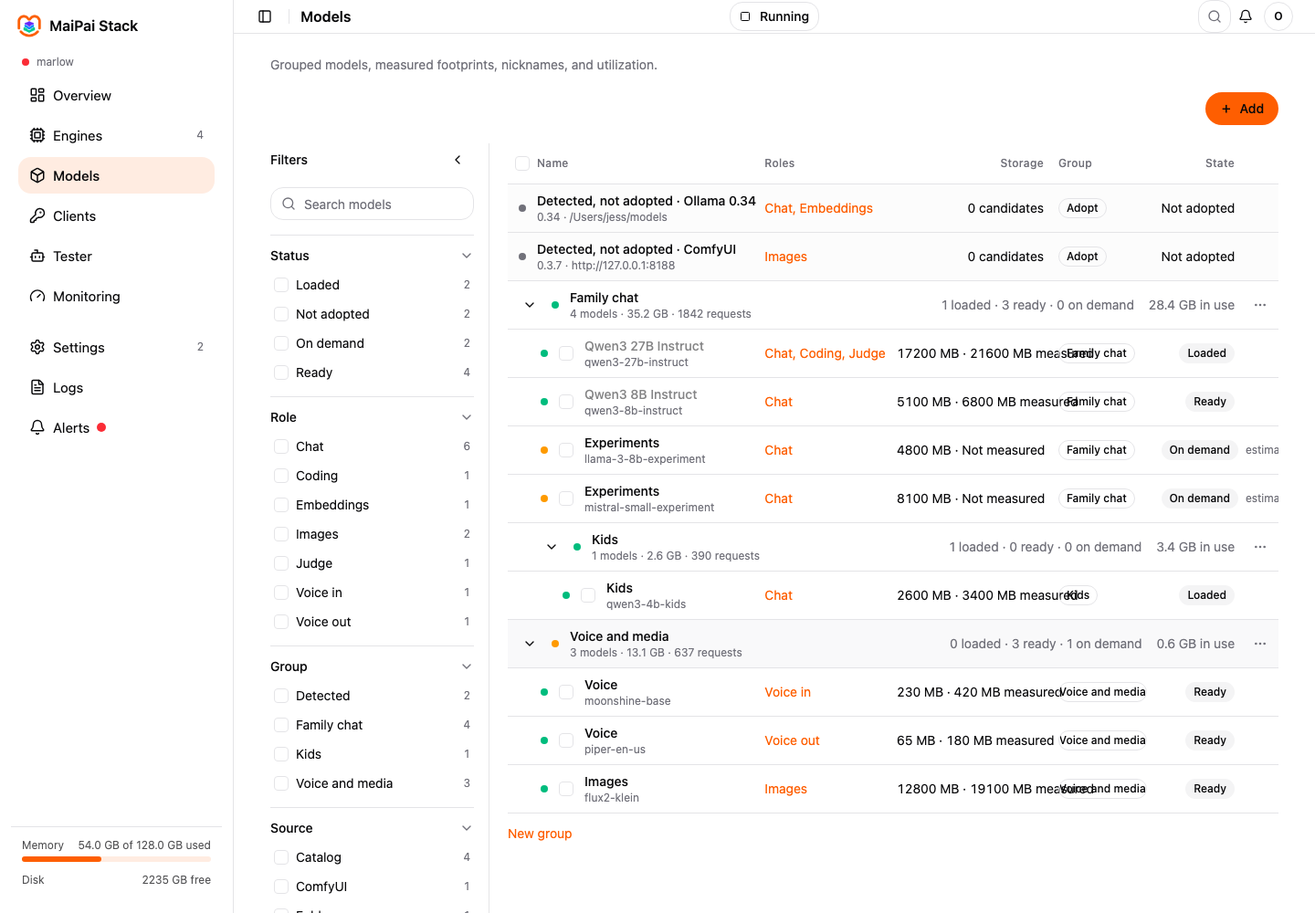
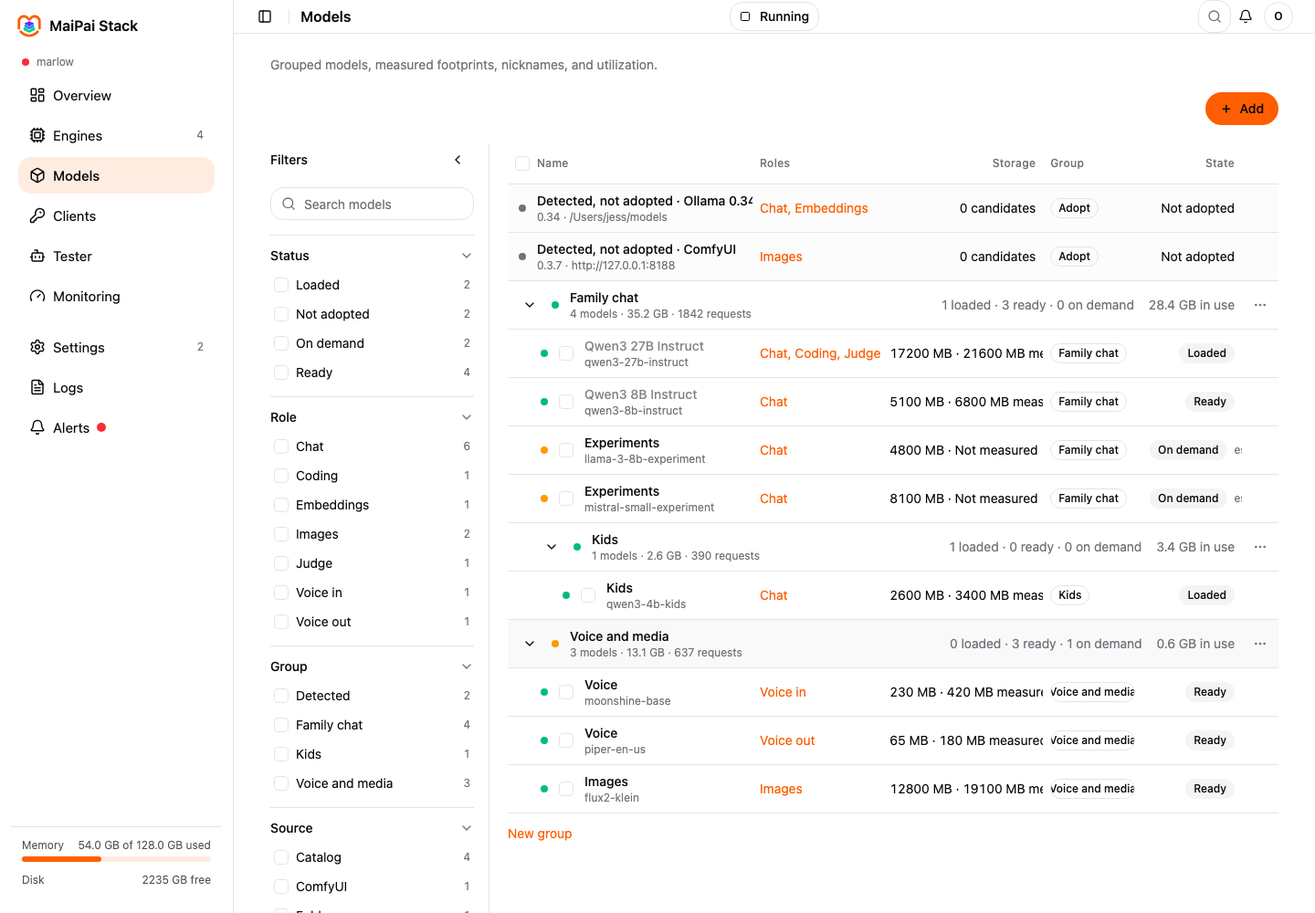
Things table: fixed column layout, the kebab on every row

diff --git a/frontend/src/kit/blocks/things-table/ThingsTable.tsx b/frontend/src/kit/blocks/things-table/ThingsTable.tsx
@@ -163,7 +163,7 @@ export function ThingsTable<Row>({ columns, rows, getStatus = () => "ready", get
           {index === 0 ? <div className="flex min-w-0 items-center gap-3"><StatusDot status={rowStatus} />{selectable && rowSelectable(row) && <Checkbox aria-label={`Select ${textContent(value) || getKey(row)}`} checked={selectedKeys.has(getKey(row))} onCheckedChange={(checked) => toggleRow(row, checked === true)} onClick={(event) => event.stopPropagation()} />}{textContent(value) ? <Tooltip><TooltipTrigger asChild><div className="min-w-0 max-w-full" title={textContent(value)}>{content}</div></TooltipTrigger><TooltipContent>{textContent(value)}</TooltipContent></Tooltip> : content}</div> : content}
         </TableCell>;
       })}
-      {rowActions && <TableCell className="w-10 p-1 text-right"><DropdownMenu><DropdownMenuTrigger asChild><button type="button" aria-label={`Actions for ${getKey(row)}`} onClick={(event) => event.stopPropagation()} className="inline-flex size-8 items-center justify-center rounded-md text-muted-foreground opacity-0 transition-opacity hover:bg-muted focus-visible:opacity-100 focus-visible:ring-2 focus-visible:ring-ring group-hover/thing:opacity-100 group-focus-within/thing:opacity-100"><MoreHorizontal className="size-4" /></button></DropdownMenuTrigger><DropdownMenuContent align="end" style={{ backgroundColor: "var(--popover)" }} className="bg-popover opacity-100">{actionsForRow.map((action, index) => <Fragment key={action.label}>{index > 0 && action.destructive && <DropdownMenuSeparator />}<DropdownMenuItem variant={action.destructive ? "destructive" : "default"} disabled={action.disabled} onSelect={(event) => { if (action.destructive) { event.preventDefault(); setConfirmAction({ key: getKey(row), action }); } else void action.onClick(); }}>{action.label}</DropdownMenuItem></Fragment>)}{confirmAction?.key === getKey(row) && <div className="max-w-56 border-t bg-popover p-2 text-xs"><p>{confirmAction.action.confirmLabel ?? `${confirmAction.action.label} this item?`}</p><div className="mt-2 flex justify-end gap-2"><button type="button" className="text-muted-foreground" onClick={() => setConfirmAction(null)}>Cancel</button><button type="button" className="font-medium text-destructive" onClick={async () => { await confirmAction.action.onClick(); setConfirmAction(null); }}>Confirm</button></div></div>}</DropdownMenuContent></DropdownMenu></TableCell>}
+      {rowActions && <TableCell className="w-10 p-1 text-right"><DropdownMenu><DropdownMenuTrigger asChild><button type="button" aria-label="More actions" onClick={(event) => event.stopPropagation()} className="inline-flex size-8 items-center justify-center rounded-md text-muted-foreground opacity-0 transition-opacity hover:bg-muted focus-visible:opacity-100 focus-visible:ring-2 focus-visible:ring-ring group-hover/thing:opacity-100 group-focus-within/thing:opacity-100 [@media(hover:none)]:opacity-100"><MoreHorizontal className="size-4" /></button></DropdownMenuTrigger><DropdownMenuContent align="end" style={{ backgroundColor: "var(--popover)" }} className="bg-popover opacity-100">{actionsForRow.map((action, index) => <Fragment key={action.label}>{index > 0 && action.destructive && <DropdownMenuSeparator />}<DropdownMenuItem variant={action.destructive ? "destructive" : "default"} disabled={action.disabled} onSelect={(event) => { if (action.destructive) { event.preventDefault(); setConfirmAction({ key: getKey(row), action }); } else void action.onClick(); }}>{action.label}</DropdownMenuItem></Fragment>)}{confirmAction?.key === getKey(row) && <div className="max-w-56 border-t bg-popover p-2 text-xs"><p>{confirmAction.action.confirmLabel ?? `${confirmAction.action.label} this item?`}</p><div className="mt-2 flex justify-end gap-2"><button type="button" className="text-muted-foreground" onClick={() => setConfirmAction(null)}>Cancel</button><button type="button" className="font-medium text-destructive" onClick={async () => { await confirmAction.action.onClick(); setConfirmAction(null); }}>Confirm</button></div></div>}</DropdownMenuContent></DropdownMenu></TableCell>}
     </TableRow>;
   };
 
@@ -176,7 +176,7 @@ export function ThingsTable<Row>({ columns, rows, getStatus = () => "ready", get
     return <Fragment key={`group-${group.key}`}><TableRow className="cursor-pointer focus-visible:bg-muted/50" onClick={() => group.onClick?.()} tabIndex={group.onClick ? 0 : undefined}>
       <TableCell style={{ paddingLeft: `${depth * 1.5 + 0.75}rem` }} colSpan={1}><div className="flex min-w-0 items-center gap-3"><button type="button" className="inline-flex size-6 shrink-0 items-center justify-center rounded-md focus-visible:ring-2 focus-visible:ring-ring" aria-label={`${isExpanded ? "Collapse" : "Expand"} ${group.ariaLabel ?? textContent(group.label)}`} onClick={(event) => { event.stopPropagation(); setExpanded((current) => { const next = new Set(current); if (next.has(group.key)) next.delete(group.key); else next.add(group.key); return next; }); }}>{isExpanded ? <ChevronDown className="size-4" /> : <ChevronRight className="size-4" />}</button><StatusDot status={groupStatus} /><div className="min-w-0">{group.label}</div></div></TableCell>
       {columns.length > 1 && <TableCell colSpan={columns.length - 1} className="text-right text-sm text-muted-foreground">{group.summary}</TableCell>}
-      {groupActions && <TableCell className="w-10 p-1"><DropdownMenu><DropdownMenuTrigger asChild><button type="button" aria-label={`Actions for ${group.ariaLabel ?? group.key}`} onClick={(event) => event.stopPropagation()} className="inline-flex size-8 items-center justify-center rounded-md text-muted-foreground hover:bg-muted focus-visible:ring-2 focus-visible:ring-ring"><MoreHorizontal className="size-4" /></button></DropdownMenuTrigger><DropdownMenuContent align="end" className="bg-popover opacity-100">{actionsForGroup.map((action) => <DropdownMenuItem key={action.label} variant={action.destructive ? "destructive" : "default"} onSelect={(event) => { if (action.destructive) { event.preventDefault(); setConfirmAction({ key: `group:${group.key}`, action }); } else void action.onClick(); }}>{action.label}</DropdownMenuItem>)}{confirmAction?.key === `group:${group.key}` && <div className="max-w-56 border-t bg-popover p-2 text-xs"><p>{confirmAction.action.confirmLabel ?? `${confirmAction.action.label} this group?`}</p><div className="mt-2 flex justify-end gap-2"><button type="button" className="text-muted-foreground" onClick={() => setConfirmAction(null)}>Cancel</button><button type="button" className="font-medium text-destructive" onClick={async () => { await confirmAction.action.onClick(); setConfirmAction(null); }}>Confirm</button></div></div>}</DropdownMenuContent></DropdownMenu></TableCell>}
+      {groupActions && <TableCell className="w-10 p-1"><DropdownMenu><DropdownMenuTrigger asChild><button type="button" aria-label="More actions" onClick={(event) => event.stopPropagation()} className="inline-flex size-8 items-center justify-center rounded-md text-muted-foreground hover:bg-muted focus-visible:ring-2 focus-visible:ring-ring"><MoreHorizontal className="size-4" /></button></DropdownMenuTrigger><DropdownMenuContent align="end" className="bg-popover opacity-100">{actionsForGroup.map((action) => <DropdownMenuItem key={action.label} variant={action.destructive ? "destructive" : "default"} onSelect={(event) => { if (action.destructive) { event.preventDefault(); setConfirmAction({ key: `group:${group.key}`, action }); } else void action.onClick(); }}>{action.label}</DropdownMenuItem>)}{confirmAction?.key === `group:${group.key}` && <div className="max-w-56 border-t bg-popover p-2 text-xs"><p>{confirmAction.action.confirmLabel ?? `${confirmAction.action.label} this group?`}</p><div className="mt-2 flex justify-end gap-2"><button type="button" className="text-muted-foreground" onClick={() => setConfirmAction(null)}>Cancel</button><button type="button" className="font-medium text-destructive" onClick={async () => { await confirmAction.action.onClick(); setConfirmAction(null); }}>Confirm</button></div></div>}</DropdownMenuContent></DropdownMenu></TableCell>}
     </TableRow>{isExpanded && childRows.map((row) => renderRow(row, depth + 1))}{isExpanded && childGroups.map((child) => renderGroup(child, depth + 1))}</Fragment>;
   };
 

diff --git a/frontend/src/pages/ModelsPage.tsx b/frontend/src/pages/ModelsPage.tsx
@@ -103,11 +103,11 @@ export function ModelsPage({ Frame }: { Frame: SectionFrameComponent }) {
   if (noModels) return <Frame title="Models" description="Grouped models, measured footprints, nicknames, and utilization."><PageEmptyState title="No models are installed yet" detail="Choose an ability to bring the first local model to this computer." action={<Button asChild><a href="/abilities">Add abilities</a></Button>} /></Frame>;
   return <Frame title="Models" description="Grouped models, measured footprints, nicknames, and utilization."><div className="flex justify-end"><Button onClick={() => setAddOpen(true)}><span aria-hidden="true">＋</span>Add</Button></div><ThingsPage filter={{ search: { value: filterSearch, onChange: setFilterSearch, placeholder: "Search models" }, groups: filterGroups, onClear: () => { setFilterSearch(""); setFilterSelections({}); } }} table={<ThingsTable<ModelRow>
     columns={[
-      { key: "name", header: "Name", width: "34%", render: (row) => row.kind === "detected" ? <div><p className="font-medium">Detected, not adopted · {row.store.name}</p><p className="text-xs text-muted-foreground">{row.store.version} · {row.store.path ?? row.store.where}</p></div> : <div className="min-w-0"><input aria-label={`Nickname ${row.model.id}`} className="block w-44 max-w-full truncate bg-transparent font-medium outline-none" defaultValue={renames[row.model.id] ?? row.model.nickname ?? ""} placeholder={displayName(row.model.id)} onKeyDown={(event) => { if (event.key === "Escape") { event.currentTarget.value = row.model.nickname ?? ""; event.currentTarget.blur(); } if (event.key === "Enter") event.currentTarget.blur(); }} onBlur={(event) => void renameModel(row.model, event.target.value)} onClick={(event) => event.stopPropagation()} /><p className="truncate text-xs text-muted-foreground">{row.model.nickname && row.model.nickname !== displayName(row.model.id) ? row.model.id : displayName(row.model.id) !== row.model.id ? row.model.id : null}</p><p className="truncate text-xs text-muted-foreground xl:hidden">{groupRows.find((group) => group.id === row.model.groupId)?.name ?? "Ungrouped"}</p></div> },
-      { key: "roles", header: "Roles", width: "18%", render: (row) => row.kind === "detected" ? linkCell("/abilities", (row.store.couldHold ?? row.store.roles ?? []).map(roleLabel).join(", ") || "Unassigned") : linkCell("/abilities", row.model.roles.map(roleLabel).join(", ")) },
-      { key: "size", header: "Storage", width: "22%", align: "right", render: (row) => row.kind === "detected" ? `${row.store.candidateModels ?? 0} candidates` : `${row.model.sizeBytes ? `${Math.round(row.model.sizeBytes / 1_000_000 * 10) / 10} MB` : "Size unknown"} · ${row.model.measuredFootprintBytes ? `${Math.round(row.model.measuredFootprintBytes / 1_000_000 * 10) / 10} MB measured` : "Not measured"}` },
-      { key: "group", header: "Group", width: "14%", compact: true, render: (row) => row.kind === "detected" ? <Badge variant="outline">Adopt</Badge> : <Badge variant="outline" className="max-w-full truncate">{groupRows.find((group) => group.id === row.model.groupId)?.name ?? "Ungrouped"}</Badge> },
-      { key: "state", header: "State", width: "12%", align: "right", render: (row) => row.kind === "detected" ? "Not adopted" : <><Badge variant="secondary">{stateLabel(row.model.runtimeState ?? row.model.state)}</Badge>{row.model.estimated && <span className="ml-2 text-xs text-muted-foreground">estimated</span>}</> },
+      { key: "name", header: "Name", width: "32%", render: (row) => row.kind === "detected" ? <div><p className="font-medium">Detected, not adopted · {row.store.name}</p><p className="text-xs text-muted-foreground">{row.store.version} · {row.store.path ?? row.store.where}</p></div> : <div className="min-w-0"><input aria-label={`Nickname ${row.model.id}`} className="block w-44 max-w-full truncate bg-transparent font-medium outline-none" defaultValue={renames[row.model.id] ?? row.model.nickname ?? ""} placeholder={displayName(row.model.id)} onKeyDown={(event) => { if (event.key === "Escape") { event.currentTarget.value = row.model.nickname ?? ""; event.currentTarget.blur(); } if (event.key === "Enter") event.currentTarget.blur(); }} onBlur={(event) => void renameModel(row.model, event.target.value)} onClick={(event) => event.stopPropagation()} /><p className="truncate text-xs text-muted-foreground">{row.model.nickname && row.model.nickname !== displayName(row.model.id) ? row.model.id : displayName(row.model.id) !== row.model.id ? row.model.id : null}</p><p className="truncate text-xs text-muted-foreground xl:hidden">{groupRows.find((group) => group.id === row.model.groupId)?.name ?? "Ungrouped"}</p></div> },
+      { key: "roles", header: "Roles", width: "17%", render: (row) => row.kind === "detected" ? linkCell("/abilities", (row.store.couldHold ?? row.store.roles ?? []).map(roleLabel).join(", ") || "Unassigned") : linkCell("/abilities", row.model.roles.map(roleLabel).join(", ")) },
+      { key: "size", header: "Storage", width: "21%", align: "right", render: (row) => row.kind === "detected" ? `${row.store.candidateModels ?? 0} candidates` : `${row.model.sizeBytes ? `${Math.round(row.model.sizeBytes / 1_000_000 * 10) / 10} MB` : "Size unknown"} · ${row.model.measuredFootprintBytes ? `${Math.round(row.model.measuredFootprintBytes / 1_000_000 * 10) / 10} MB measured` : "Not measured"}` },
+      { key: "group", header: "Group", width: "13%", compact: true, render: (row) => row.kind === "detected" ? <Badge variant="outline">Adopt</Badge> : <Badge variant="outline" className="max-w-full truncate">{groupRows.find((group) => group.id === row.model.groupId)?.name ?? "Ungrouped"}</Badge> },
+      { key: "state", header: "State", width: "13%", align: "right", render: (row) => row.kind === "detected" ? "Not adopted" : <><Badge variant="secondary">{stateLabel(row.model.runtimeState ?? row.model.state)}</Badge>{row.model.estimated && <span className="ml-2 text-xs text-muted-foreground">estimated</span>}</> },
     ]}
     rows={rows}
     groups={groupTree}

diff --git a/scripts/screenshot.ts b/scripts/screenshot.ts
@@ -14,7 +14,7 @@ async function captureTry(page: import("playwright").Page, url: string, path: st
 async function capturePhoneFirstViews(page: import("playwright").Page, url: string): Promise<void> { await page.route("**/stack/v1/operator", async (request) => request.fulfill({ status: 200, contentType: "application/json", body: JSON.stringify({ state: "setupRequired", required: true }) })); await page.goto(`${url}/login`, { waitUntil: "networkidle" }); await page.screenshot({ path: join(SCREEN_DIR, "login-phone.png"), fullPage: true }); await page.unroute("**/stack/v1/operator"); await page.goto(`${url}/abilities`, { waitUntil: "networkidle" }); await page.locator("main").first().waitFor(); await page.screenshot({ path: join(SCREEN_DIR, "board-phone.png"), fullPage: true }); }
 async function captureShowroom(page: import("playwright").Page, url: string, route: string, heading: string, path: string): Promise<void> { await page.goto(`${url}${route}`, { waitUntil: "networkidle" }); await page.locator("main").first().waitFor(); await page.waitForTimeout(400); if (route === "/" && path.endsWith("overview-console-phone.png")) await capturePhoneFirstViews(page, url); await page.goto(`${url}${route}`, { waitUntil: "networkidle" }); await page.locator("main").first().waitFor(); await page.screenshot({ path, fullPage: true }); if (route === "/" && path.endsWith("overview-console-light.png")) await page.screenshot({ path: join(SCREEN_DIR, "showroom-overview.png"), fullPage: true }); }
 async function captureModelsGroups(page: import("playwright").Page, url: string, path: string): Promise<void> { await page.goto(`${url}/models`, { waitUntil: "networkidle" }); await page.locator("main").first().waitFor(); while (await page.getByRole("button", { name: /^Expand/ }).count()) await page.getByRole("button", { name: /^Expand/ }).first().click(); await page.waitForTimeout(400); await page.screenshot({ path, fullPage: true }); }
-async function captureThingsSecondPass(page: import("playwright").Page, url: string): Promise<void> { await page.goto(`${url}/models`, { waitUntil: "networkidle" }); await page.locator("main").first().waitFor(); await page.getByRole("button", { name: "Add" }).click(); await page.getByRole("tab", { name: "Catalog" }).waitFor(); await page.waitForTimeout(300); await page.screenshot({ path: join(SCREEN_DIR, "models-add.png"), fullPage: true }); await page.getByRole("button", { name: "Close" }).click(); await page.getByRole("button", { name: "Expand Family chat" }).click(); await page.getByRole("button", { name: /Actions for model:/ }).first().click(); await page.getByText("Rename").waitFor(); await page.screenshot({ path: join(SCREEN_DIR, "models-row-menu.png"), fullPage: true }); await page.goto(`${url}/engines`, { waitUntil: "networkidle" }); await page.locator("main").first().waitFor(); await page.getByRole("button", { name: /Actions for engine:/ }).first().click(); await page.getByText("Restart").waitFor(); await page.screenshot({ path: join(SCREEN_DIR, "engines-row-menu.png"), fullPage: true }); }
+async function captureThingsSecondPass(page: import("playwright").Page, url: string): Promise<void> { await page.goto(`${url}/models`, { waitUntil: "networkidle" }); await page.locator("main").first().waitFor(); await page.getByRole("button", { name: "Add" }).click(); await page.getByRole("tab", { name: "Catalog" }).waitFor(); await page.waitForTimeout(300); await page.screenshot({ path: join(SCREEN_DIR, "models-add.png"), fullPage: true }); await page.getByRole("button", { name: "Close" }).click(); await page.getByRole("button", { name: "Expand Family chat" }).click(); const modelRow = page.locator("tr").filter({ has: page.locator('input[aria-label="Nickname qwen3-27b-instruct"]') }).first(); await modelRow.hover(); await modelRow.getByRole("button", { name: "More actions" }).click(); await page.getByText("Rename").waitFor(); await page.waitForTimeout(400); await page.screenshot({ path: join(SCREEN_DIR, "models-row-menu.png"), fullPage: true }); await page.goto(`${url}/engines`, { waitUntil: "networkidle" }); await page.locator("main").first().waitFor(); const engineRow = page.locator('[data-testid^="engine-row-"]').first(); await engineRow.hover(); await engineRow.getByRole("button", { name: "More actions" }).click(); await page.getByText("Restart").waitFor(); await page.waitForTimeout(400); await page.screenshot({ path: join(SCREEN_DIR, "engines-row-menu.png"), fullPage: true }); }
 async function captureModelsFiltered(page: import("playwright").Page, url: string, path: string): Promise<void> { await page.goto(`${url}/models`, { waitUntil: "networkidle" }); await page.locator("main").first().waitFor(); await page.getByRole("checkbox", { name: "Family chat", exact: true }).click(); await page.waitForTimeout(400); await page.screenshot({ path, fullPage: true }); }
 async function captureDetected(page: import("playwright").Page, url: string, route: string, heading: string, path: string): Promise<void> { await page.goto(`${url}${route}`, { waitUntil: "networkidle" }); await page.locator("main").first().waitFor(); await page.getByText(/Detected, not adopted/).first().click(); await page.waitForTimeout(400); await page.screenshot({ path, fullPage: true }); }
 async function captureEnginePanel(page: import("playwright").Page, url: string, path: string): Promise<void> { await page.goto(`${url}/engines`, { waitUntil: "networkidle" }); await page.locator("main").first().waitFor(); await page.locator('[data-testid^="engine-row-"]').first().click(); await page.getByRole("button", { name: "Logs" }).first().waitFor(); await page.waitForTimeout(400); await page.screenshot({ path, fullPage: true }); if (page.viewportSize()?.width === 1440) { await captureEngineConfigure(page, url, join(SCREEN_DIR, "engines-configure.png")); await captureSettings(page, url, join(SCREEN_DIR, "settings.png")); } }

diff --git a/frontend/src/pages/AlertsPage.tsx b/frontend/src/pages/AlertsPage.tsx
@@ -29,7 +29,7 @@ export function AlertsPage({ Frame }: { Frame: SectionFrameComponent }) {
       <ThingsTable<AlertRow> columns={[{ key: "alert", header: "Alert", width: "38%", render: (row) => row.kind === "notification" ? <div><p className="font-medium">{row.notification.title}</p><p className="text-xs text-muted-foreground">Notification</p></div> : <div><p className="font-medium">{row.repair.title}</p><p className="text-xs text-muted-foreground">Repair</p></div> }, { key: "detail", header: "Detail", render: (row) => row.kind === "notification" ? <RelativeTime at={row.notification.at} /> : row.repair.detail }, { key: "action", header: "Action", align: "right", render: (row) => row.kind === "notification" ? "Review" : row.repair.action }]} rows={rows} getKey={(row) => row.kind === "notification" ? `notification:${row.notification.id}` : `repair:${row.repair.id}`} getStatus={alertStatus} actions={[{ label: "Clear notifications", onClick: () => void clear(), disabled: !(notifications.data?.notifications.length) }]} empty="No notifications or repairs need your attention." />
       <Card>
         <CardHeader><CardTitle>Alert channels</CardTitle><CardDescription>Verified channels receive urgent notifications and serious health changes.</CardDescription></CardHeader>
-        <CardContent><ThingsTable<ChannelRecord> columns={[{ key: "channel", header: "Channel", width: "38%", render: (row) => <div><p className="font-medium">{row.name}</p><p className="text-xs text-muted-foreground">{row.type === "telegram" ? "Telegram" : `ntfy${row.topic ? ` · ${row.topic}` : ""}`}</p></div> }, { key: "status", header: "Status", render: (row) => row.status === "verified" ? "Verified" : row.status === "failing" ? row.lastError ?? "Failing" : "Unverified" }, { key: "last", header: "Last sent", align: "right", render: (row) => row.lastSentAt ? <RelativeTime at={row.lastSentAt} /> : "Never" }]} rows={channels.data?.channels ?? []} getKey={(row) => row.id} getStatus={channelStatus} selectedKey={selectedChannel ?? undefined} onRowClick={(row) => setSelectedChannel(row.id)} actions={[{ label: "Add channel", onClick: () => undefined }]} empty="No alert channels configured." /></CardContent>
+        <CardContent><ThingsTable<ChannelRecord> columns={[{ key: "channel", header: "Channel", width: "37%", render: (row) => <div><p className="font-medium">{row.name}</p><p className="text-xs text-muted-foreground">{row.type === "telegram" ? "Telegram" : `ntfy${row.topic ? ` · ${row.topic}` : ""}`}</p></div> }, { key: "status", header: "Status", width: "30%", render: (row) => row.status === "verified" ? "Verified" : row.status === "failing" ? row.lastError ?? "Failing" : "Unverified" }, { key: "last", header: "Last sent", width: "29%", align: "right", render: (row) => row.lastSentAt ? <RelativeTime at={row.lastSentAt} /> : "Never" }]} rows={channels.data?.channels ?? []} getKey={(row) => row.id} getStatus={channelStatus} selectedKey={selectedChannel ?? undefined} onRowClick={(row) => setSelectedChannel(row.id)} rowActions={(row) => channelPanel(row.type, row.status, (action) => { if (action === "test") void sendTest(row.id); }).actions} actions={[{ label: "Add channel", onClick: () => undefined }]} empty="No alert channels configured." /></CardContent>
       </Card>
       {selected && selectedPanel && <PropertyPanel kind="Alert channel" item={{ id: selected.id, name: selected.name }} status={selected.status === "verified" ? "Verified" : selected.status === "failing" ? "Failing" : "Unverified"} actions={selectedPanel.actions} primaryActions={selectedPanel.primaryActions} facts={selectedPanel.facts} tabs={{ overview: selectedPanel.overview, settings: <GenericForm settings={selectedPanel.settings} values={{}} onChange={() => undefined} /> }} open={true} onClose={() => setSelectedChannel(null)} />}
     </div>

diff --git a/frontend/src/pages/SettingsPage.tsx b/frontend/src/pages/SettingsPage.tsx
@@ -68,7 +68,7 @@ export function SettingsPage({ Frame }: { Frame: SectionFrameComponent }) {
     const declared = visibleSettings.filter((setting) => setting.section === section.id);
     if (section.id === "groups") return <GroupsSection />;
     if (["general", "network", "updates", "diagnostics", "storage"].includes(section.id)) return <><GenericForm settings={declared} values={draft} onChange={(key, value) => void changeSetting(key, value)} testId={section.id === "general" ? "generic-engine-form" : "generic-settings-form"} />{section.id === "network" && <p className="mt-4 text-sm text-muted-foreground"><Link className="underline" to="/access">Manage operator access and client keys</Link>.</p>}{section.id === "updates" && <p className="mt-4 text-sm text-muted-foreground">Installed builds stay in control of this computer. The update check runs only when requested.</p>}</>;
-    if (section.id === "channels") return <><ThingsTable rows={channels.data?.channels ?? []} getKey={(row) => row.id} columns={[{ key: "name", header: "Channel", render: (row) => row.name }, { key: "type", header: "Type", render: (row) => row.type }, { key: "status", header: "Status", align: "right", render: (row) => row.status }]} actions={[{ label: "Add a channel", onClick: () => navigate("/alerts") }]} empty="No alert channels configured." /><p className="mt-3 text-sm text-muted-foreground"><Link className="underline" to="/alerts">Manage alert channels</Link>.</p></>;
+    if (section.id === "channels") return <><ThingsTable rows={channels.data?.channels ?? []} getKey={(row) => row.id} columns={[{ key: "name", header: "Channel", width: "37%", render: (row) => row.name }, { key: "type", header: "Type", width: "30%", render: (row) => row.type }, { key: "status", header: "Status", width: "29%", align: "right", render: (row) => row.status }]} rowActions={() => [{ label: "Open alerts", onClick: () => navigate("/alerts") }]} actions={[{ label: "Add a channel", onClick: () => navigate("/alerts") }]} empty="No alert channels configured." /><p className="mt-3 text-sm text-muted-foreground"><Link className="underline" to="/alerts">Manage alert channels</Link>.</p></>;
     if (section.id === "engines") return <div className="space-y-3">{(engines.data?.engines ?? []).map((engine) => <Link className="flex items-center justify-between rounded-lg border p-3 text-sm hover:bg-muted" to={`/engines?engine=${encodeURIComponent(engine.id)}`} key={engine.id}><span>{engine.label}</span><span className="text-muted-foreground">{engine.current ? "Current" : engine.stateReason ?? "Settings"}</span></Link>)}{(engines.data?.engines ?? []).length === 0 && <p className="text-sm text-muted-foreground">No engines are installed yet.</p>}</div>;
     if (section.id === "hardware") return <div className="grid gap-3 text-sm sm:grid-cols-2">{[["Platform", hardware.data?.hardware.platform], ["Architecture", hardware.data?.hardware.arch], ["Memory", hardware.data?.hardware.totalRamGb ? `${hardware.data.hardware.totalRamGb} GB` : "Not measured"], ["Operating system", hardware.data?.hardware.osVersion]].map(([label, value]) => <div className="border-t pt-3" key={String(label)}><p className="text-muted-foreground">{label}</p><p className="mt-1 font-medium">{value ?? "Not measured"}</p></div>)}</div>;
     if (section.id === "reset") return <div className="space-y-3 text-sm"><p>Clear local caches or forget detected things from the Stack.</p><Button variant="outline" type="button" onClick={() => undefined}>Clear caches</Button><p className="text-muted-foreground">Destructive reset actions ask for confirmation before they run.</p></div>;

diff --git a/frontend/src/pages/EnginesPage.tsx b/frontend/src/pages/EnginesPage.tsx
@@ -69,10 +69,10 @@ export function EnginesPage({ Frame }: { Frame: SectionFrameComponent }) {
 
   return <Frame title="Engines" description="Builds, health, controls, and the settings that shape each runtime."><div className="flex justify-end"><Button onClick={() => setAddOpen(true)}><span aria-hidden="true">＋</span>Add</Button></div><ThingsPage filter={{ search: { value: filterSearch, onChange: setFilterSearch, placeholder: "Search engines" }, groups: filterGroups, onClear: () => { setFilterSearch(""); setFilterSelections({}); } }} table={<ThingsTable<EngineRow>
     columns={[
-      { key: "build", header: "Build", width: "38%", render: (row) => row.kind === "detected" ? <div><p className="font-medium">Detected, not adopted · {row.store.name}</p><p className="text-xs text-muted-foreground">{row.store.version} · {row.store.path ?? row.store.where}</p></div> : <div><p className="font-medium">{row.engine.label}</p><p className="text-xs text-muted-foreground">{row.engine.id}</p></div> },
-      { key: "platform", header: "Platform", render: (row) => row.kind === "detected" ? `${row.store.kind} · ${row.store.candidateModels ?? 0} candidates` : `${row.engine.platform} · ${row.engine.arch}` },
-      { key: "roles", header: "Roles", render: (row) => row.kind === "detected" ? (row.store.couldHold ?? row.store.roles ?? []).map(roleLabel).join(", ") || "Unassigned" : linkCell("/abilities", "View abilities") },
-      { key: "state", header: "State", align: "right", render: (row) => row.kind === "detected" ? <Badge variant="outline">Not adopted</Badge> : <div><Badge variant={row.engine.notCurrent ? "secondary" : "default"}>{row.engine.state === "current" ? "Current" : "Not current"}</Badge><p className="mt-1 text-xs text-muted-foreground">{row.engine.stateReason ?? "Ready"}{row.engine.currentTag && ` · ${row.engine.currentTag}`}</p>{row.engine.needsRestart && <p className="mt-1 text-xs font-medium text-primary">Needs restart</p>}</div> },
+      { key: "build", header: "Build", width: "36%", render: (row) => row.kind === "detected" ? <div><p className="font-medium">Detected, not adopted · {row.store.name}</p><p className="text-xs text-muted-foreground">{row.store.version} · {row.store.path ?? row.store.where}</p></div> : <div><p className="font-medium">{row.engine.label}</p><p className="text-xs text-muted-foreground">{row.engine.id}</p></div> },
+      { key: "platform", header: "Platform", width: "18%", render: (row) => row.kind === "detected" ? `${row.store.kind} · ${row.store.candidateModels ?? 0} candidates` : `${row.engine.platform} · ${row.engine.arch}` },
+      { key: "roles", header: "Roles", width: "22%", render: (row) => row.kind === "detected" ? (row.store.couldHold ?? row.store.roles ?? []).map(roleLabel).join(", ") || "Unassigned" : linkCell("/abilities", "View abilities") },
+      { key: "state", header: "State", width: "20%", align: "right", render: (row) => row.kind === "detected" ? <Badge variant="outline">Not adopted</Badge> : <div><Badge variant={row.engine.notCurrent ? "secondary" : "default"}>{row.engine.state === "current" ? "Current" : "Not current"}</Badge><p className="mt-1 text-xs text-muted-foreground">{row.engine.stateReason ?? "Ready"}{row.engine.currentTag && ` · ${row.engine.currentTag}`}</p>{row.engine.needsRestart && <p className="mt-1 text-xs font-medium text-primary">Needs restart</p>}</div> },
     ]}
     rows={filteredRows}
     getKey={(row) => row.kind === "detected" ? `detected:${row.store.id}` : `engine:${row.engine.id}`}

diff --git a/frontend/src/thingsTable.test.tsx b/frontend/src/thingsTable.test.tsx
@@ -20,3 +20,10 @@ test("ThingsTable renders state tooltips, sorts, groups, selection, actions, and
   rerender(<ThingsTable columns={columns} rows={[]} getKey={(row) => row.id} empty="Nothing here yet." />);
   expect(document.body.textContent).toContain("Nothing here yet.");
 });
+
+test("ThingsTable reserves the menu column and renders More actions on every row", () => {
+  render(<ThingsTable columns={[{ key: "name", header: "Name", width: "32%", render: (row: Row) => row.name }, { key: "roles", header: "Roles", width: "17%", render: () => "Chat" }, { key: "storage", header: "Storage", width: "21%", align: "right" as const, render: () => "21600 MB measured" }, { key: "group", header: "Group", width: "13%", render: () => "Family chat" }, { key: "state", header: "State", width: "13%", align: "right" as const, render: (row: Row) => row.status }]} rows={rows} getKey={(row) => row.id} getStatus={(row) => row.status} rowActions={() => [{ label: "Open", onClick: () => {} }]} empty="Nothing here yet." />);
+  const widths = [...document.querySelectorAll("thead th")].map((cell) => Number.parseFloat((cell as HTMLElement).style.width)).filter((width) => Number.isFinite(width));
+  expect(widths.reduce((sum, width) => sum + width, 0)).toBeLessThanOrEqual(96);
+  expect(document.querySelectorAll('button[aria-label="More actions"]')).toHaveLength(rows.length);
+});

diff --git a/frontend/src/pages/AccessPage.tsx b/frontend/src/pages/AccessPage.tsx
@@ -11,6 +11,7 @@ import { clientPanel } from "@/panels/client";
 import { PropertyPanel } from "@/kit/blocks/property-panel/PropertyPanel";
 import { RelativeTime } from "@/kit/ui/relative-time";
 import { labelForRole } from "@/lib/modelStates";
+import { actionsFor } from "@/lib/actions";
 
 type Client = { id: string; name: string; keyPrefix: string; allowedRoles: string[]; requests?: number; tokensIn?: number; tokensOut?: number; createdAt?: string; lastSeenAt?: string | null };
 const FileKey2 = getIcon("FileKey2"); const ShieldCheck = getIcon("ShieldCheck");
@@ -44,6 +45,7 @@ export function AccessPage({ Frame }: { Frame: SectionFrameComponent }) {
     getKey={(row) => row.id}
     onRowClick={(row) => setSelected(row.id)}
     onLink={(target) => { if (target.startsWith("#client-")) setSelected(target.slice("#client-".length)); }}
+    rowActions={(row) => actionsFor("client", row, (action) => { if (action === "revoke") void api.delete(`/stack/v1/clients/${row.id}`).then(() => clients.refetch()); }, "row")}
     empty="No client keys yet."
   /> </div>} panel={client && panel ? <PropertyPanel kind="Client" item={{ name: client.name }} status="Active" actions={panel.actions} facts={panel.facts} primaryActions={panel.primaryActions} tabs={{ overview: panel.overview }} open onClose={() => setSelected(null)} /> : null} /></div></Frame>;
 }

diff --git a/frontend/src/models-tree.test.tsx b/frontend/src/models-tree.test.tsx
@@ -26,7 +26,7 @@ test("Models renders group rollups, routes group actions, renames, and adopts de
   await waitFor(() => expect(calls.some((call) => call.method === "POST" && call.path.includes("/groups/group-family/actions"))).toBe(true));
   const input = document.querySelector('input[aria-label="Nickname qwen"]')!;
   fireEvent.change(input, { target: { value: "Household" } }); fireEvent.blur(input);
-  expect(document.querySelector('button[aria-label="Actions for model:qwen"]')).toBeTruthy();
+  expect(document.querySelector('button[aria-label="More actions"]')).toBeTruthy();
   await waitFor(() => expect(calls.some((call) => call.method === "PATCH" && call.path.includes("/models/qwen"))).toBe(true));
   fireEvent.click(document.querySelector('tr.bg-muted\\/30')!);
   fireEvent.click(document.querySelector('button[aria-label="Adopt"]')!);
